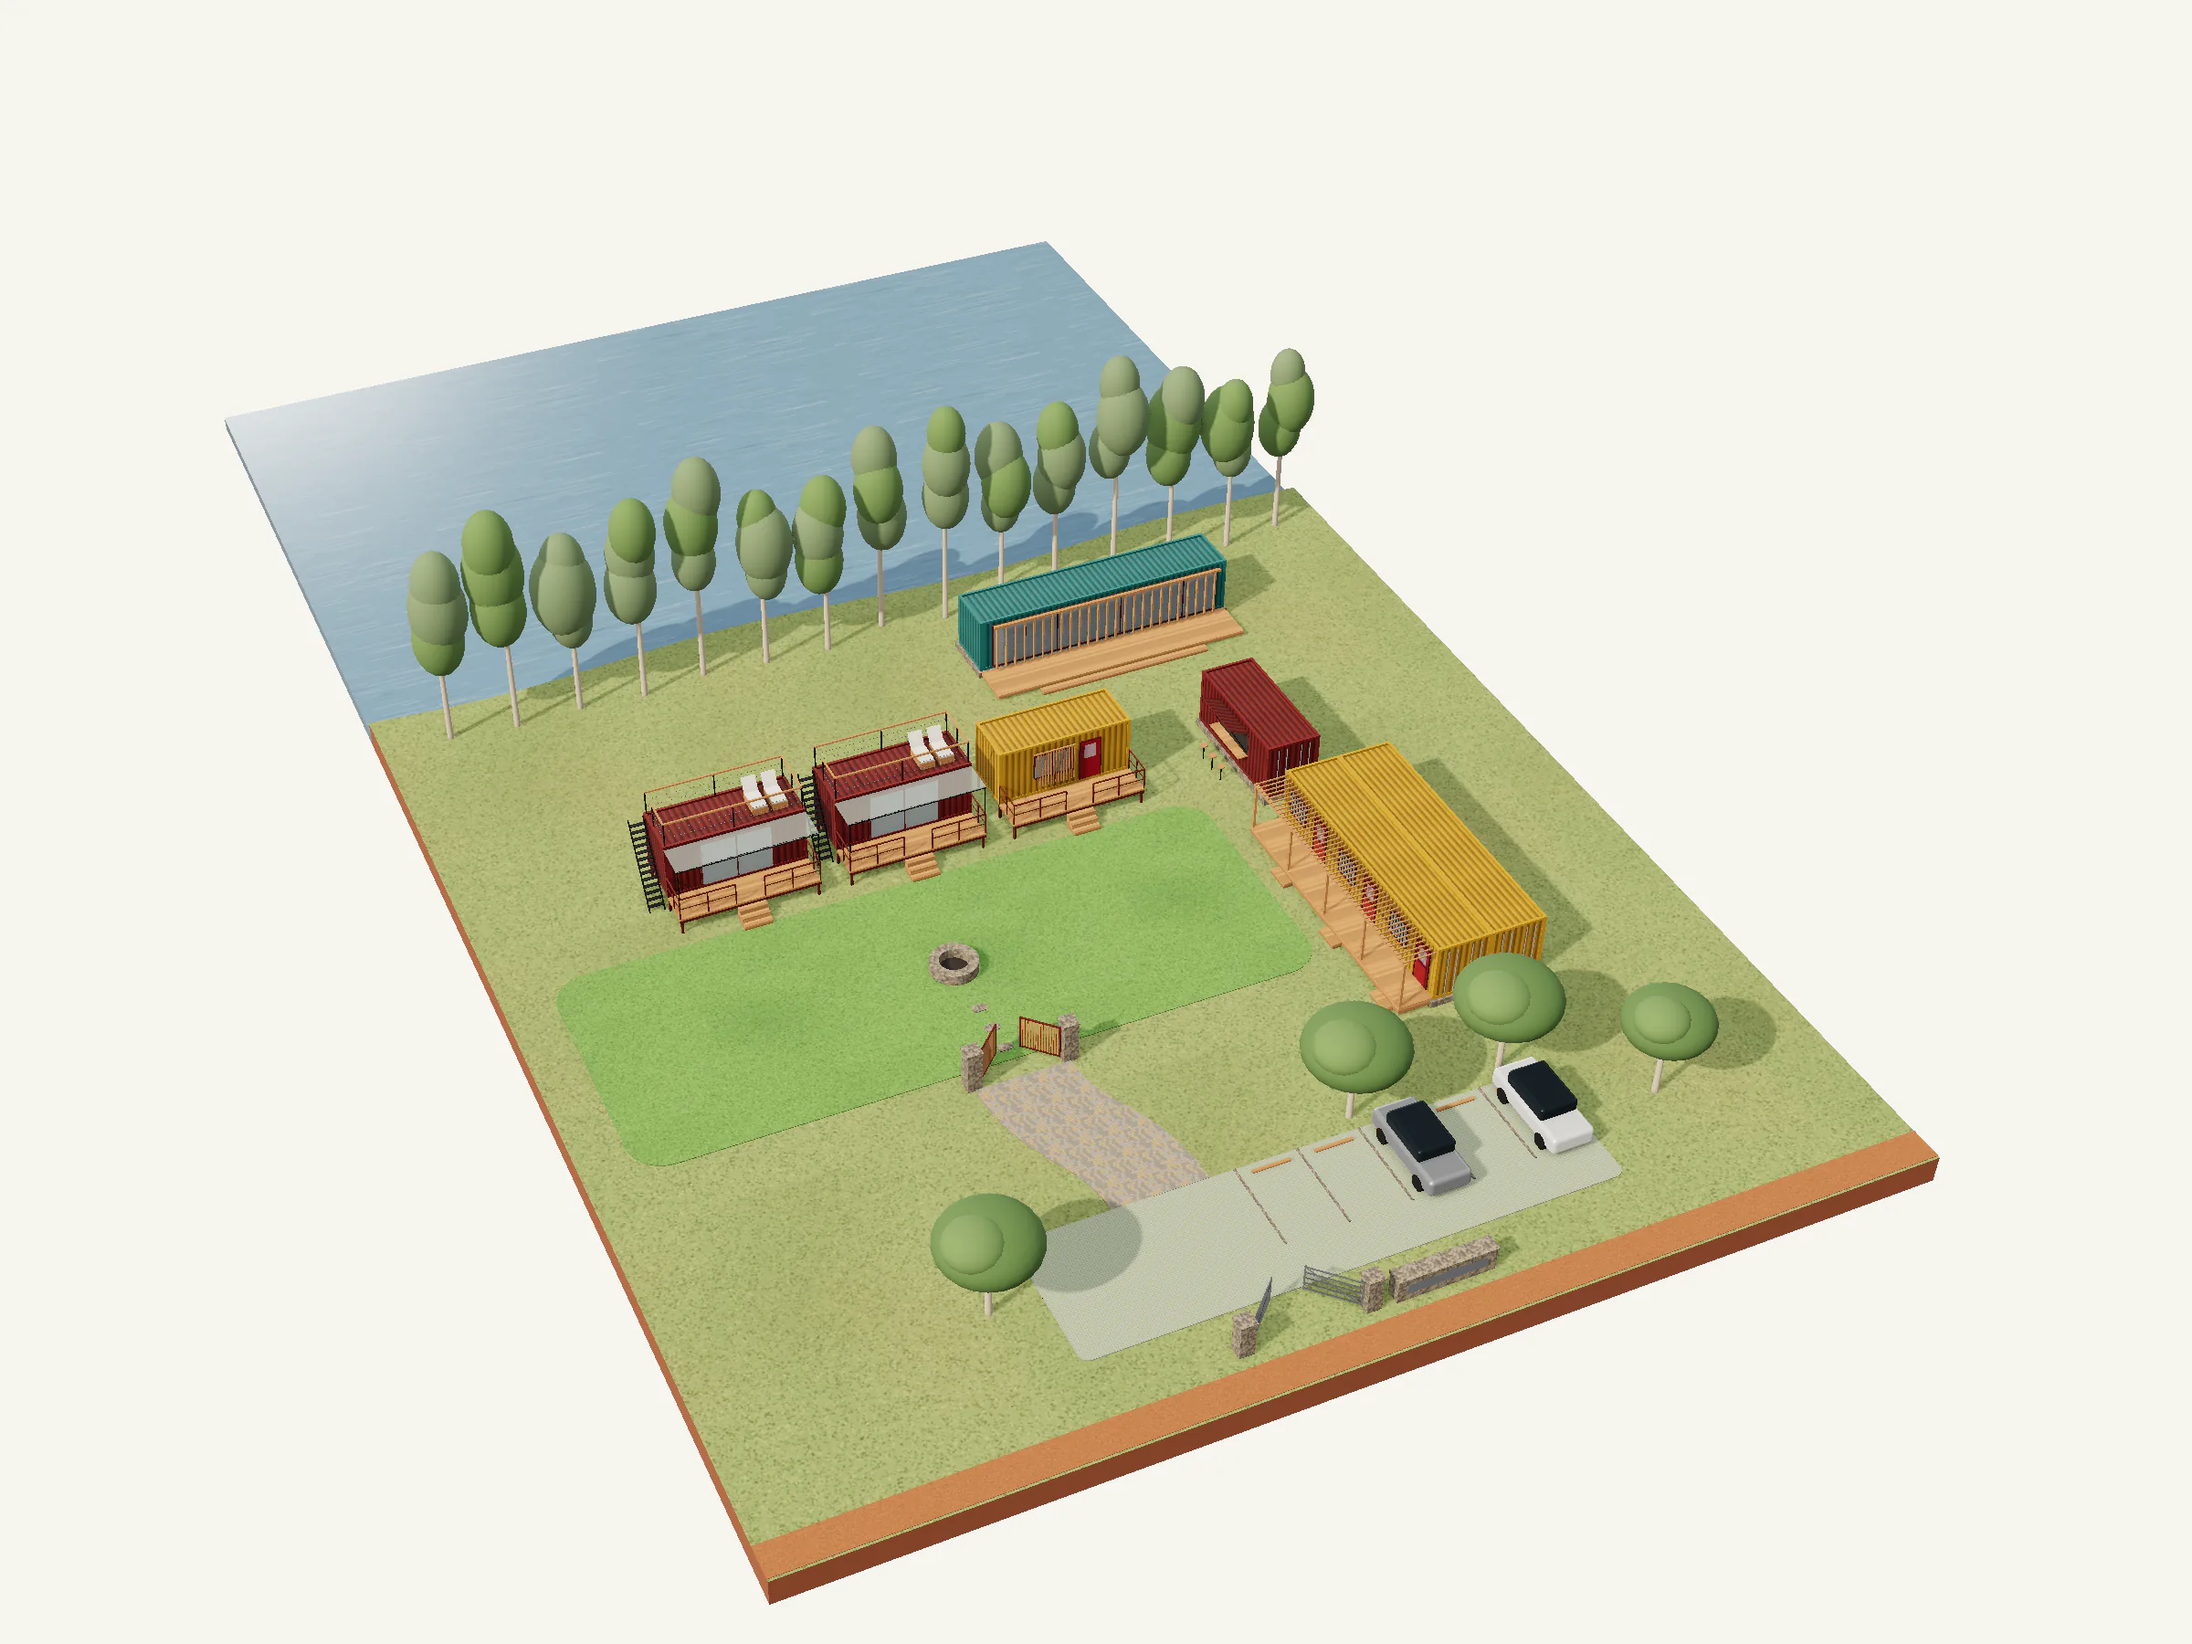
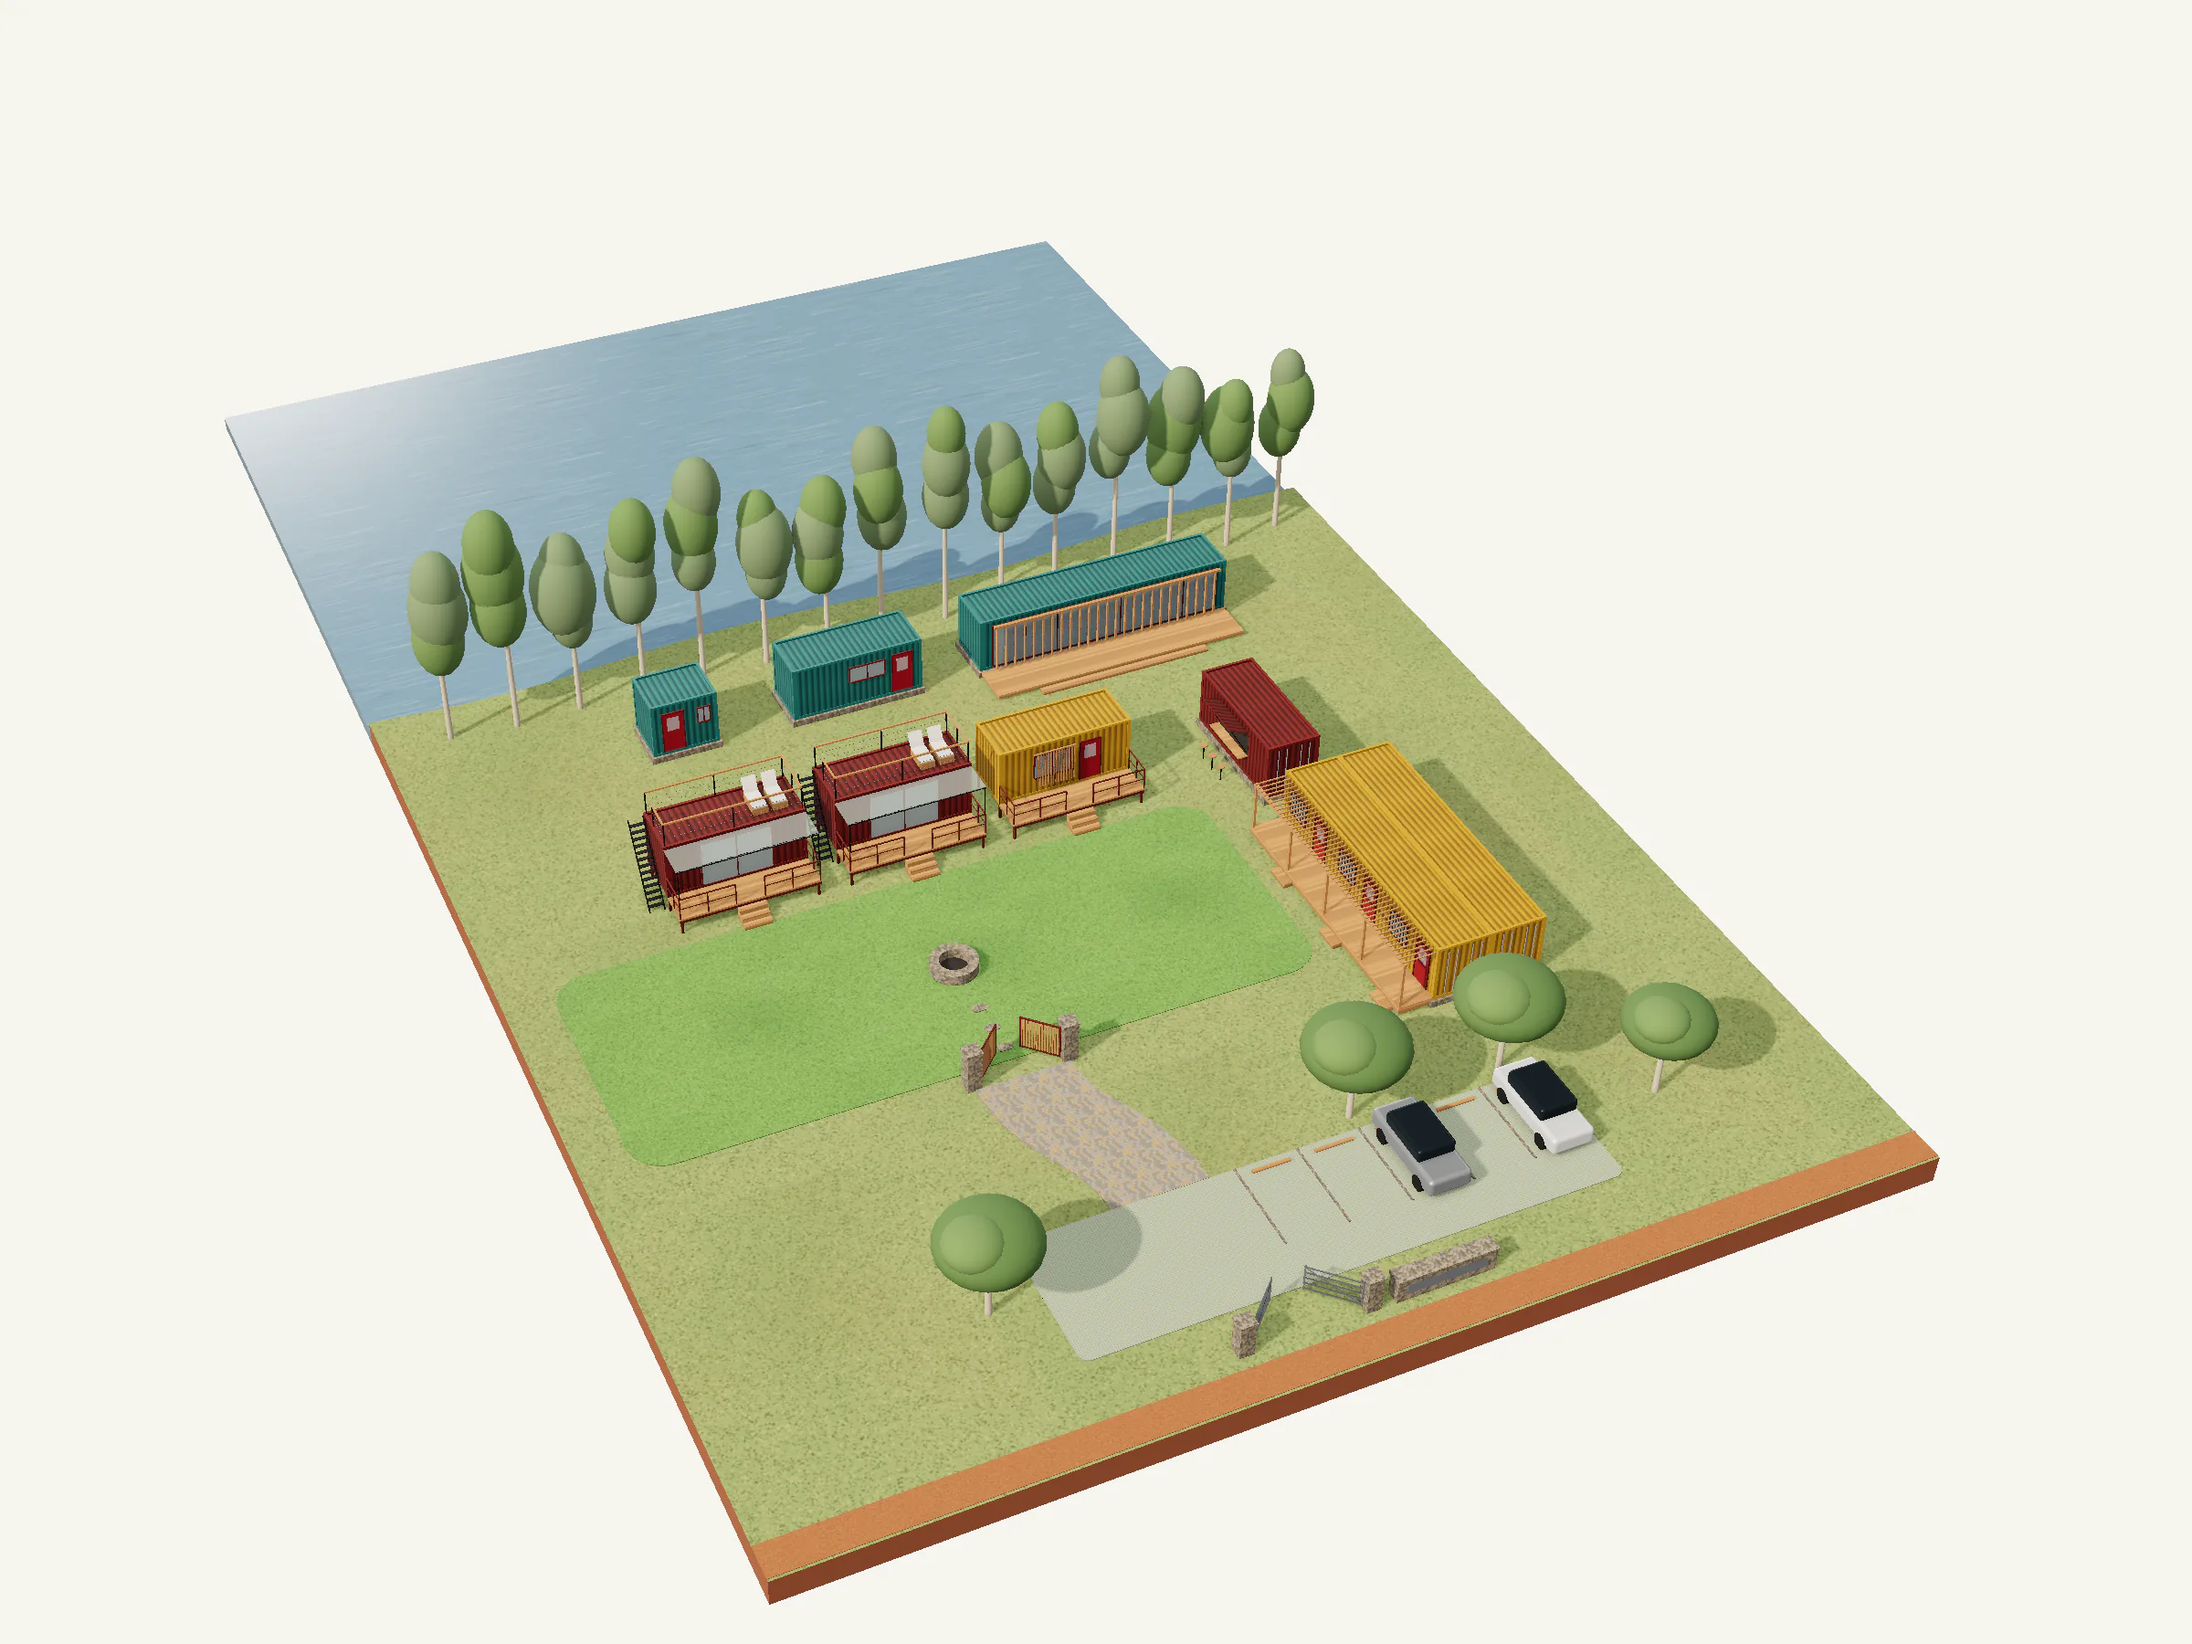
feat(home): a galley and a bathroom beside the study room
Two separate buildings, as the founder asked: a 20 ft galley and a 10 ft
bathroom (sizes assumed), each with its own door, in the 2D and the 3D.

Claude-Session: https://claude.ai/code/session_01S6J7Hi5HC8BwLHu6Wj1ANE

Changed region(s): [[0.2812, 0.3733, 0.4375, 0.4667]]

diff --git a/src/components/home/compound-plan.tsx b/src/components/home/compound-plan.tsx
@@ -213,7 +213,39 @@ function Study({ unit, west }: { unit: Unit; west: number }) {
       <rect {...at([x0, y1, x1, y1 + deck])} {...thin} />
       <rect {...at([x0, y0, x1, y1])} {...wall} />
       <Glazing a={[f(g0), y1]} b={[f(g1), y1]} />
-      <text x={f(x1 + 0.7)} y={f((y0 + y1) / 2 + 0.32)} style={label}>
+      <text x={f((x0 + x1) / 2)} y={f(y0 - 0.8)} textAnchor="middle" style={label}>
+        {unit.label}
+      </text>
+    </g>
+  )
+}
+
+// Beside the study room, two buildings of their own: a 20 ft galley (a worktop along the back wall, a
+// sink) and a 10 ft bathroom (shower and WC), each with a door on the courtyard side.
+function Galley({ unit }: { unit: Unit }) {
+  const [x0, y0, x1, y1] = B(unit.box)
+  return (
+    <g>
+      <rect {...at([x0, y0, x1, y1])} {...wall} />
+      <rect {...at([x0 + 0.1, y0 + 0.1, x1 - 0.1, y0 + 0.7])} {...thin} />
+      <circle cx={f(x0 + 2.2)} cy={f(y0 + 0.4)} r={0.2} {...thin} />
+      <Door hinge={[f(x0 + 0.8), y1]} along={[1, 0]} into={[0, -1]} width={0.9} />
+      <text x={f((x0 + x1) / 2)} y={f(y0 - 0.8)} textAnchor="middle" style={label}>
+        {unit.label}
+      </text>
+    </g>
+  )
+}
+
+function Bath({ unit }: { unit: Unit }) {
+  const [x0, y0, x1, y1] = B(unit.box)
+  return (
+    <g>
+      <rect {...at([x0, y0, x1, y1])} {...wall} />
+      <rect {...at([x0 + 0.1, y0 + 0.1, x0 + 1.0, y0 + 1.0])} {...thin} />
+      <rect {...at([x1 - 0.65, y0 + 0.1, x1 - 0.15, y0 + 0.75])} rx={0.2} {...thin} />
+      <Door hinge={[f(x1 - 0.5), y1]} along={[-1, 0]} into={[0, -1]} width={0.8} />
+      <text x={f((x0 + x1) / 2)} y={f(y0 - 0.8)} textAnchor="middle" style={label}>
         {unit.label}
       </text>
     </g>
@@ -241,6 +273,8 @@ export function CompoundPlan({ title, className }: { title: string; className?: 
     <svg viewBox={`${VIEW[0]} ${VIEW[1]} ${VIEW[2] - VIEW[0]} ${VIEW[3] - VIEW[1]}`} role="img" aria-label={title} className={className}>
       {/* The study room, then the row of office and two studios, the bar and the guest rooms */}
       <Study unit={units.study} west={B(units.rooms.box)[0]} />
+      <Galley unit={units.galley} />
+      <Bath unit={units.bath} />
       {row.map((unit) => (
         <RowUnit key={unit.id} unit={unit} dimension={unit.id === "studio-two"} />
       ))}

diff --git a/src/components/home/copy.ts b/src/components/home/copy.ts
@@ -52,7 +52,7 @@ export const copy = {
   plans: {
     title: "2D",
     label:
-      "Plan of the compound, with the study room at the top and the gates at the bottom. At the top, the 40 ft study room on its deck. Below it, the row of three 20 ft containers on raised decks facing the courtyard: the farm office next to the bar, then two studios. Down the left, the bar and then the guest-room block in one line, their doors onto the veranda and the courtyard lawn with its fire pit, and the study room's end in line with them. At the bottom, the inner gate, a rock road down to the green parking, and the outer gate beside the Digital Farm sign wall.",
+      "Plan of the compound, with the study room at the top and the gates at the bottom. At the top, the 40 ft study room on its deck, and beside it two small buildings of their own, a galley and a bathroom. Below it, the row of three 20 ft containers on raised decks facing the courtyard: the farm office next to the bar, then two studios. Down the left, the bar and then the guest-room block in one line, their doors onto the veranda and the courtyard lawn with its fire pit, and the study room's end in line with them. At the bottom, the inner gate, a rock road down to the green parking, and the outer gate beside the Digital Farm sign wall.",
     note: "Illustrative plan: containers drawn to size, layout not surveyed.",
   },
   model: {

diff --git a/scripts/site/render/compound.html b/scripts/site/render/compound.html
@@ -600,6 +600,17 @@ for (const u of C.units.filter((u) => u.kind === "20" && u.front === "north")) r
   blk(x0 + 2, z0 - u.deck - 0.4, x1 - 2, z0 - u.deck, 0, 0.14, "timber")
 }
 
+// beside the study room: a 20 ft galley and a 10 ft bathroom, each its own building with a door
+for (const [id, windows] of [["galley", [[1.8, 3.4]]], ["bath", [[0.4, 0.9]]]]) {
+  const u = units[id], [x0, z0, x1, z1] = u.box, y0 = u.plinth
+  blk(x0 - 0.1, z0 - 0.1, x1 + 0.1, z1 + 0.1, 0, y0, "stone")
+  container(u.box, u.paint, y0)
+  const wall = { axis: "z", at: z0, out: -1 }
+  const door = id === "bath" ? [x1 - 1.4, x1 - 0.5] : [x0 + 0.5, x0 + 1.4]
+  opening(wall, door[0], door[1], y0 + 0.16, y0 + 2.1, "door")
+  for (const [a, b] of windows) opening(wall, x0 + a, x0 + b, y0 + 1.3, y0 + 2.0, "glazed")
+}
+
 // ------------------------------------------------------------ trees
 function eucalyptus(x, z) {
   const h = 8.5 + rnd() * 3, lean = (rnd() - 0.5) * 0.4

diff --git a/study/execution/decision-log.md b/study/execution/decision-log.md
@@ -78,3 +78,5 @@ Context: the founder asked for the electrical plan of one studio with the power 
 Context: the founder read the homepage plan and corrected it: the lake lies to the south and the public road and gates to the north; the office is the first 20 ft container in the row, next to the guest rooms, followed by the two studios; the study room stands further out toward the lake, its west end in line with the guest rooms; and a bar, a 20 ft container (the red kiosk with a serving hatch in the 2026-10-25 footage), stands in the same line as the guest rooms, past their north end. That makes seven containers. Decision: the layout lives once, in metres, in `src/components/home/compound.json`; the homepage draws it as a plain 2D plan and a 3D model (line drawing and materials view, `scripts/site/render/compound.html`) directly under the hero, replacing the numbered compound section. Supersedes D-017's order of the row and the study room's position. Containers are ISO sizes; the rest of the plan is illustrative, not surveyed.
 
 Update 2026-10-27 (D-022): the founder swapped the bar and the guest rooms: the guest-room block now stands nearest the inner gate and the bar at its far end, at the corner of the L next to the office. The homepage 2D is drawn in the studio plan's pattern, flipped top to bottom (study room at the top, gates at the bottom, the guest rooms, bar and study room on the left), spread sideways for a wide screen with every building at its true size, and without the lake or the public road.
+
+Update 2026-10-27 (D-022): beside the study room the founder adds a galley and a bathroom as two separate buildings, drawn as a 20 ft galley and a 10 ft bathroom (sizes assumed, not given), each with its own door; nine containers in all.
